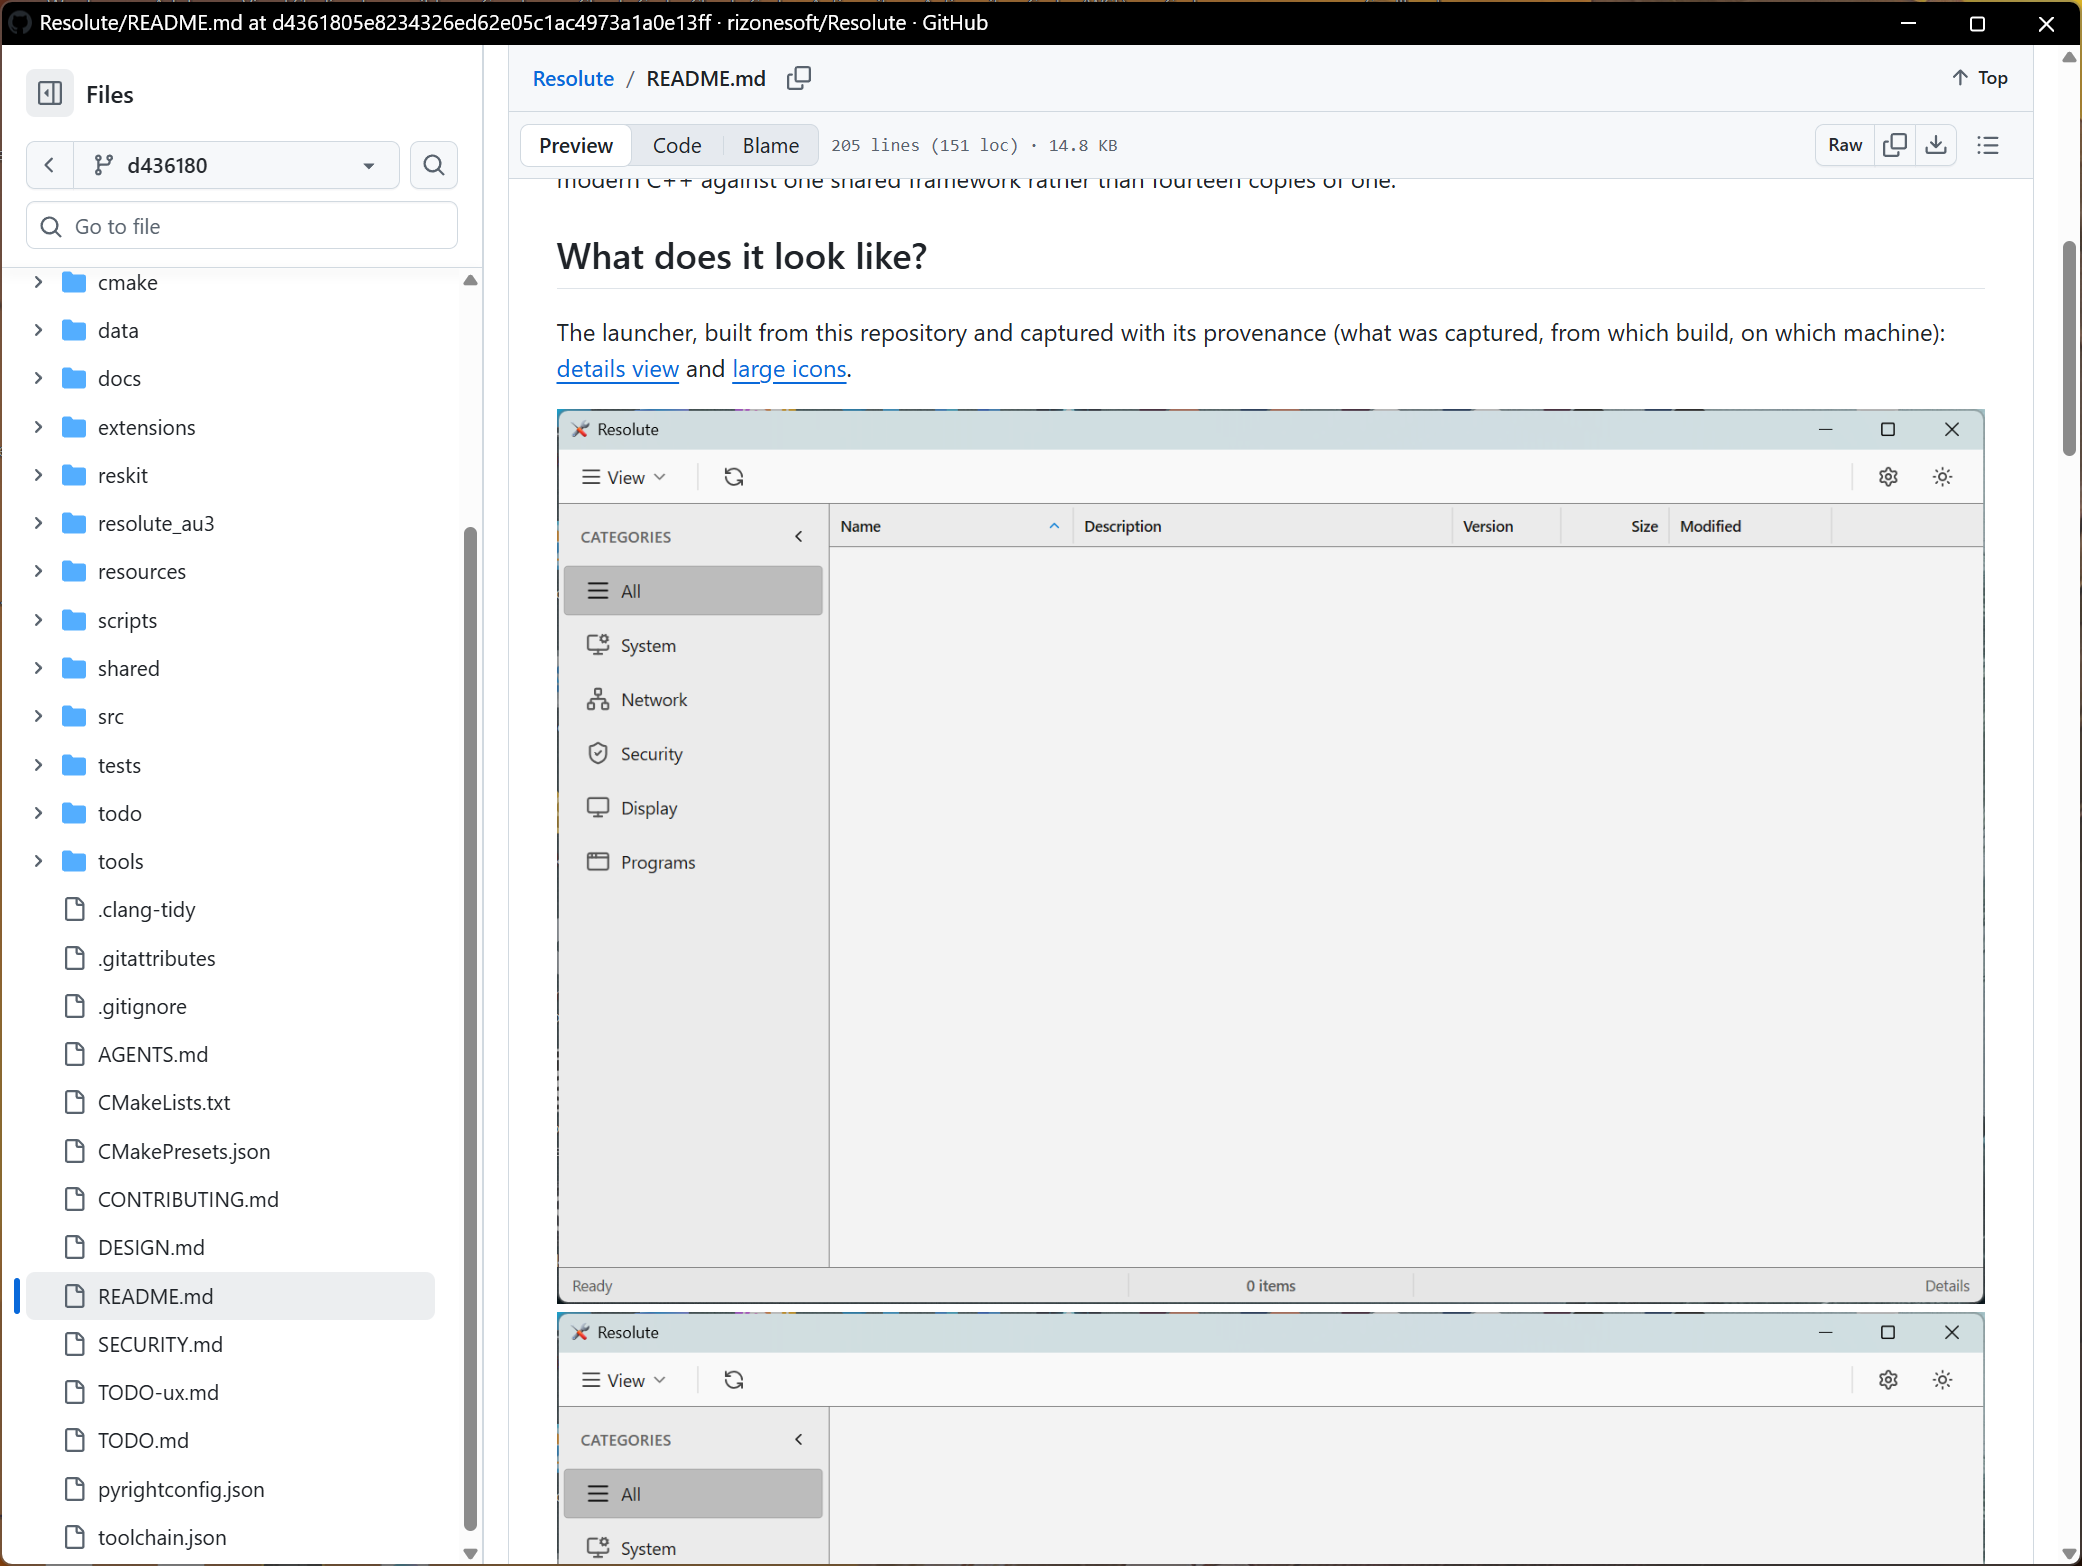
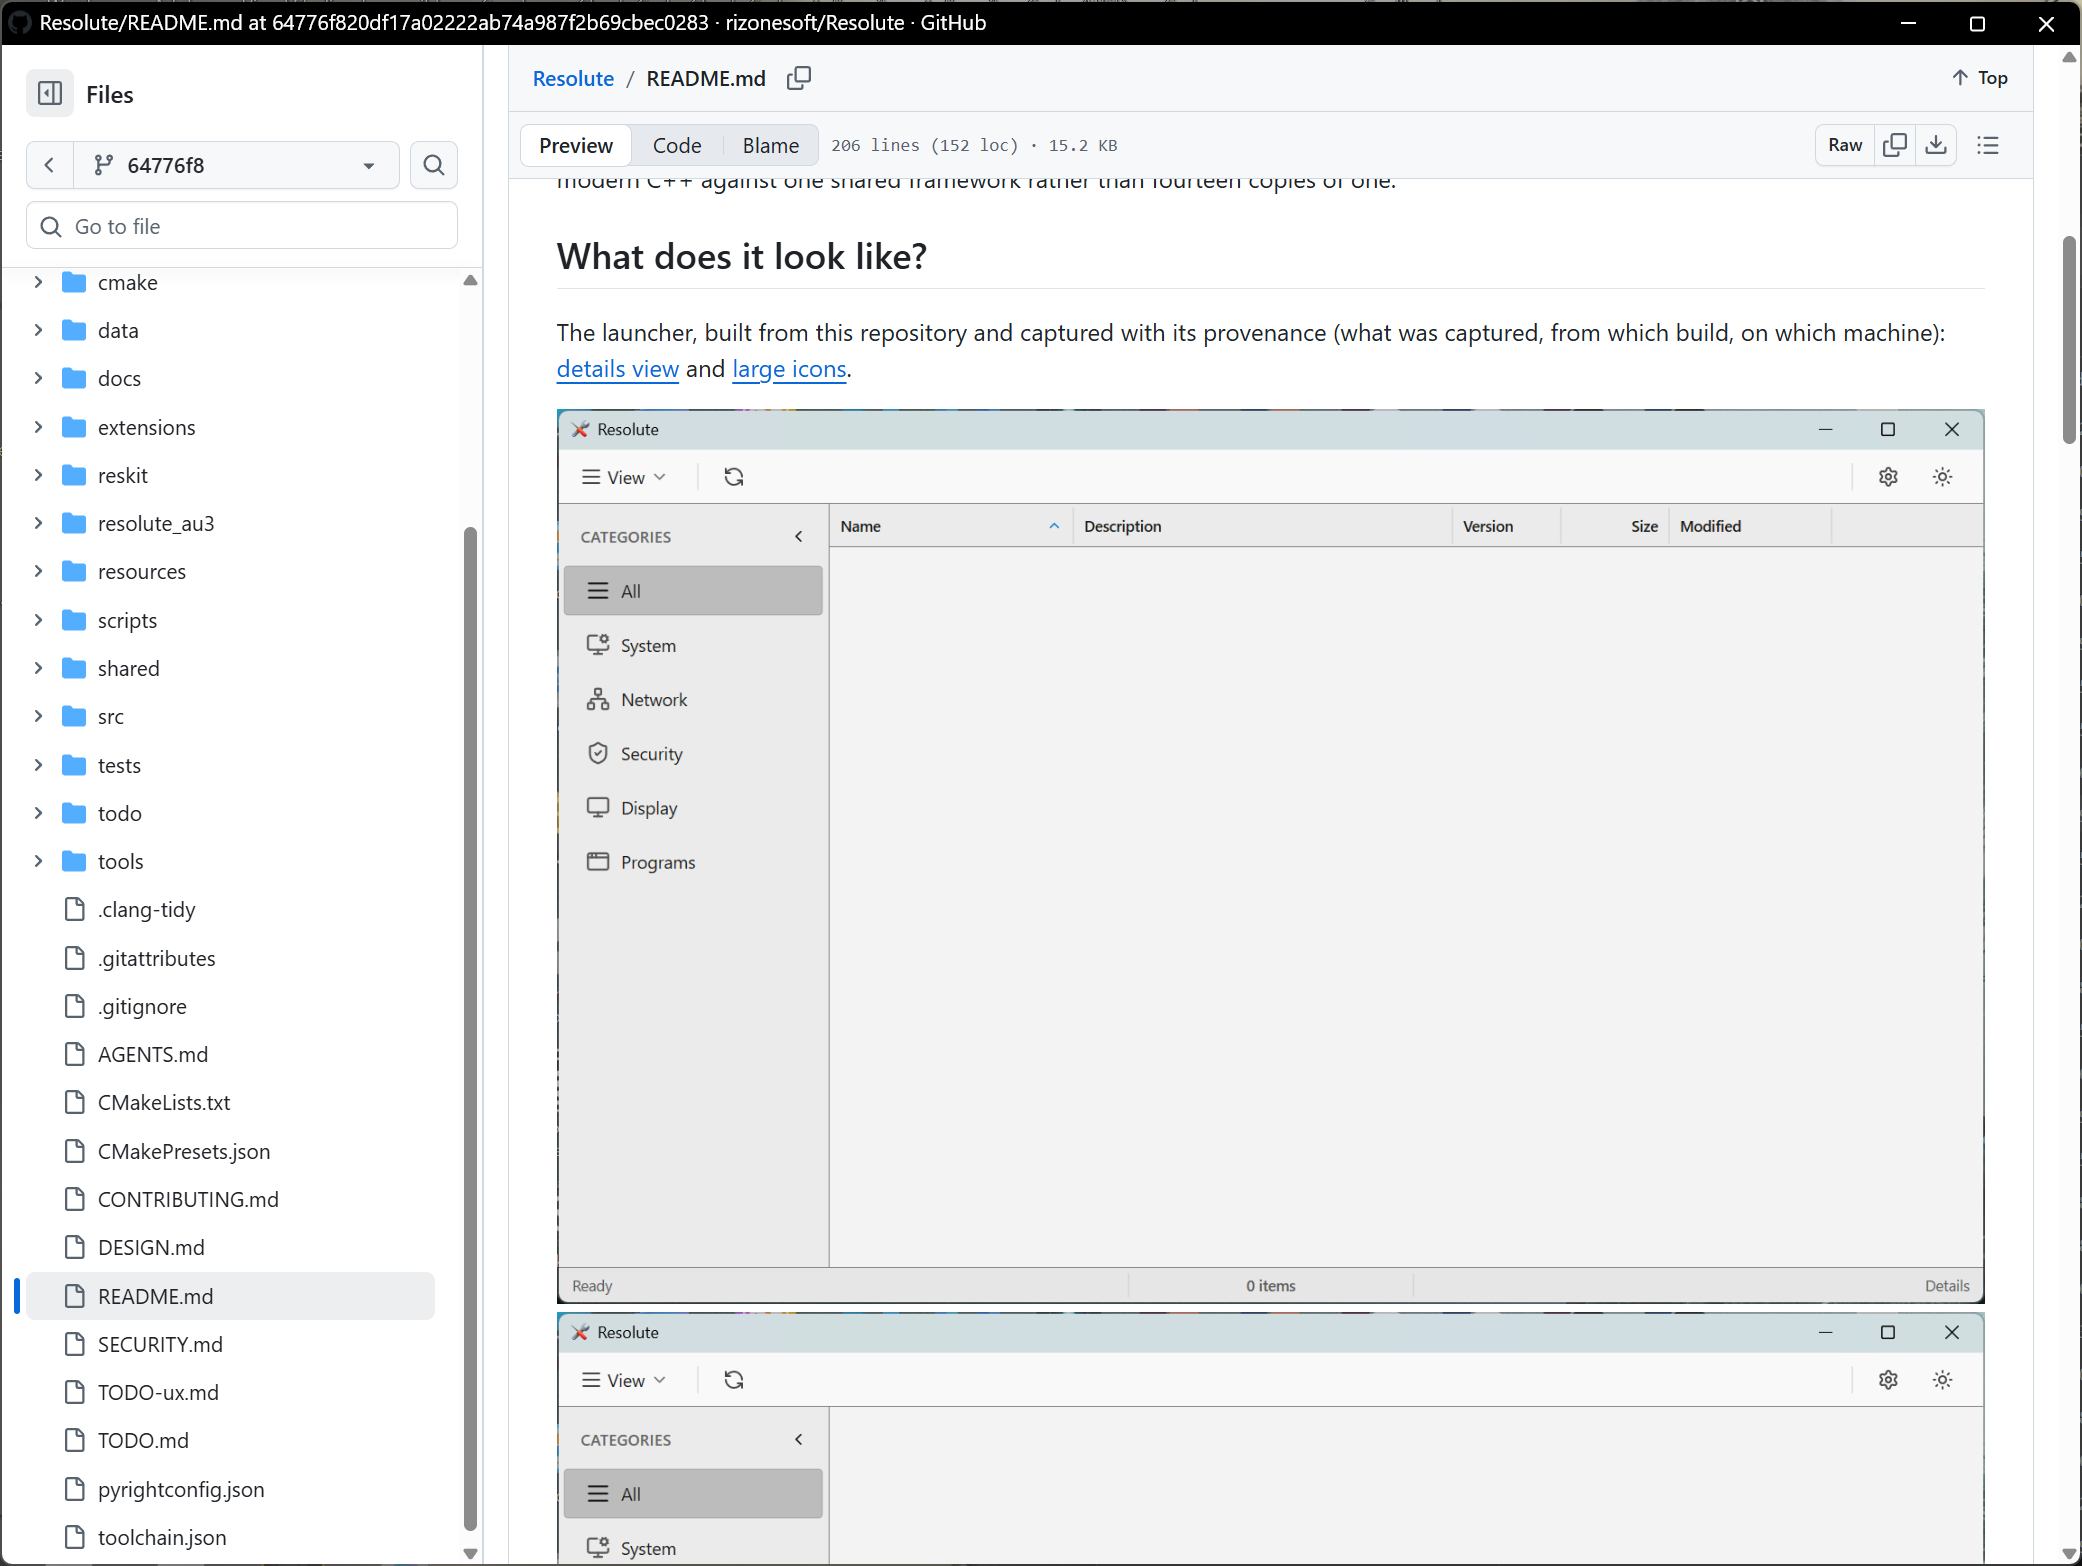
docs: the README captures retaken at the revision that holds the corrected diagram (D00 T05 §2)

diff --git a/todo/00-workspace/TODO-05-repo-face.md b/todo/00-workspace/TODO-05-repo-face.md
@@ -144,7 +144,7 @@ The README follows the full shape: purpose, badges, screenshot, audience, quick 
 - [x] Show the product, not a description of it: the §1 light and dark pairs embedded through `<picture>`, each with alt text that says what the surface does, at a width that stays sharp on a high-DPI display. Done when: both GitHub themes show the matching capture, captured as above, and no image is a mockup. **Done 2026-11-13:** `docs/captures/runs/2026-11-13-D00-T05-s2-readme-shots-light.png` and `-shots-dark.png` with sidecars: GitHub's light theme shows the light launcher capture and its dark theme the dark one, both real captures from `D00 T05 §1`.
 - [x] Present the tools as a gallery generated from the tree: one row per tool with its icon, name, one-line job, a frozen marker for the six frozen tools, and its state (AutoIt shipping, C++ planned, in progress, or shipped, read from the plan). Done when: a script writes the gallery between marker comments from a committed tool map (`docs/readme/tools.json`: each row's name, one-line job, icon file, owning plan section by reference, frozen flag, and for a folded tool what it folds into with the decision cited), refusing by name any `.sni` tool under `resolute_au3/SDK/Concrete/` or `extensions/` tool the map lacks and any map row whose icon or section does not resolve; it writes a PNG per tool from the icon's 48 px frame (bitmap or PNG frame) beside the README's images and reads each row's state from its section through `todo-graph.py resolve`; a self-test case copies the tree's map and plan into a fixture, flips one row's section to done, and the generated row changes state; runs with `--check` inside `scripts/check-all.ps1`, and a hand edit to the gallery fails the gate by name. Cheaper substitute that fails the checkpoint: a hand-written table, which is how the current README came to list DLLs the build no longer makes. **Done 2026-11-13 (28d971b6):** `scripts/readme-blocks.py` writes twelve rows from `docs/readme/tools.json` with a PNG per tool under `docs/readme/icons/` (the bitmap-only icons converted), the frozen marker on the six frozen tools, the fold note on the six that fold, and each state read from its plan; `--self-test` `PASS a tool the tree has and the map lacks is refused by name`, `PASS a plan section done changes the tool's state`, `PASS a hand edit inside the gallery is named stale`; `--check` runs in `scripts/check-all.ps1` (`readme blocks`), and `todo-graph.py plan --sync` refreshes it.
 - [x] Show progress honestly: a generated status block (sections done over total, per phase, and the next phase with a ready row, or that none is ready when every open row is blocked) between marker comments, read without writing anything from the plan projection `todo/implementation-plan.md` (kept current by `plan --check` in the same gate) and from `python scripts/todo-graph.py query ready --json`. Done when: the same `--check` gate fails a stale block by name, quoted, and leaves every file byte-identical; and a self-test case on a fixture marks one section done and the phase's figures and the next phase change. **Done 2026-11-13 (28d971b6):** the block reads `87 of 247 sections done (35 percent)` with a row per phase and `Next to run: phase 0, Gates, proof, and the bar.`, from the plan projection and `query ready --json`, writing neither; `--self-test` `PASS the progress block counts each phase and names the next ready one`, `PASS a section done moves the totals and the next phase`, `PASS with nothing ready, the block says none is` and `PASS --check on a current tree finds nothing stale and changes no file`.
-- [ ] Draw the architecture: a Mermaid diagram of the layers (UI library, framework, repair contract, tools, launcher) and the one rule between them, rendered by GitHub. Done when: the diagram renders on GitHub in both themes, captured, and names only directories that exist or sections that own them. **Done 2026-11-13:** `docs/captures/runs/2026-11-13-D00-T05-s2-readme-diagram-light.png` and `-diagram-dark.png` with sidecars: the Mermaid diagram renders on GitHub in both themes, naming `extensions/`, `src/repair/`, `src/framework/`, `src/` and `shared/resolute-ui`. **Reopened 2026-11-13:** round 2's fix changed the diagram (the edge from tools to the repair contract now reads "repair tools only", `168fa428`), so the two diagram captures above show the earlier drawing. They are retaken at the commit that holds the new diagram as soon as the desktop is idle; the operator was at the keyboard when the fix landed (13 s idle against the 120 s the capture tool requires).
+- [x] Draw the architecture: a Mermaid diagram of the layers (UI library, framework, repair contract, tools, launcher) and the one rule between them, rendered by GitHub. Done when: the diagram renders on GitHub in both themes, captured, and names only directories that exist or sections that own them. **Done 2026-11-13:** `docs/captures/runs/2026-11-13-D00-T05-s2-readme-diagram-light.png` and `-diagram-dark.png` with sidecars: the Mermaid diagram renders on GitHub in both themes, naming `extensions/`, `src/repair/`, `src/framework/`, `src/` and `shared/resolute-ui`. **Reopened 2026-11-13:** round 2's fix changed the diagram (the edge from tools to the repair contract now reads "repair tools only", `168fa428`), so the two diagram captures above show the earlier drawing. They are retaken at the commit that holds the new diagram as soon as the desktop is idle; the operator was at the keyboard when the fix landed (13 s idle against the 120 s the capture tool requires). **Retaken 2026-11-13:** all six captures were taken again at `64776f82`, which holds the corrected diagram; the diagram captures show the edge from tools to the repair contract labelled "repair tools only", in both themes, and the hero and screenshot captures are of the same revision.
 - [x] Make it easy to read at length: a short table of contents, one heading level per idea, the long reference parts (layout, gates) folded into `<details>` blocks (**Corrected 2026-09-26:** this listed WSL first; D00 T01 §9 removed the README's WSL flow with `scripts/wsl.sh`), no em dashes, and one line per paragraph as `AGENTS.md` requires. Done when: a markdown lint plus a link and anchor check over `README.md`, `CONTRIBUTING.md`, and the templates runs in `scripts/check-all.ps1` and fails a broken relative link or anchor by name, quoted. **Done 2026-11-13:** a contents block, one heading level per idea, the layout and the gates folded into `<details>`, no em dashes and one line per paragraph; `scripts/readme-check.py` checks `README.md`, `CONTRIBUTING.md`, `SECURITY.md` and the templates in `check-all` (`readme check ok` in the cold run) and fails a broken link or anchor by name (`PASS a broken relative link fails by name`, `PASS a broken anchor fails by name`).
 - [x] Add the trust files a premium project carries: `SECURITY.md` (how to report a vulnerability, which versions get fixes, and that nothing is signed until `D06 T01 §3` ships), a Support section naming where questions and bugs go, and the changelog named with `D06 T01 §6` as its owner, linked once that file exists. Done when: `SECURITY.md` and the Support section exist and the README links them, checked by the link gate. **Done 2026-11-13 (28d971b6):** `SECURITY.md` says how to report privately (GitHub private vulnerability reporting, enabled for the repository by this run: `gh api repos/rizonesoft/Resolute/private-vulnerability-reporting` `{"enabled":true}`; reversing it is `gh api -X DELETE` on the same path), which versions get fixes, and that nothing is signed until `D06 T01 §3`; "Support and security" names where questions and bugs go and the changelog's owner `D06 T01 §6`; the link gate checks both links.
 - [x] Commit: `"docs: full-structure README plus contributor files"` **Done 2026-11-13:** `28d971b6`, then `70c7b0db` (the icon encoding made the same on every machine, after CI's `plan-gates` went red on it) and `3812f99b` (the six captures of GitHub's rendering).
